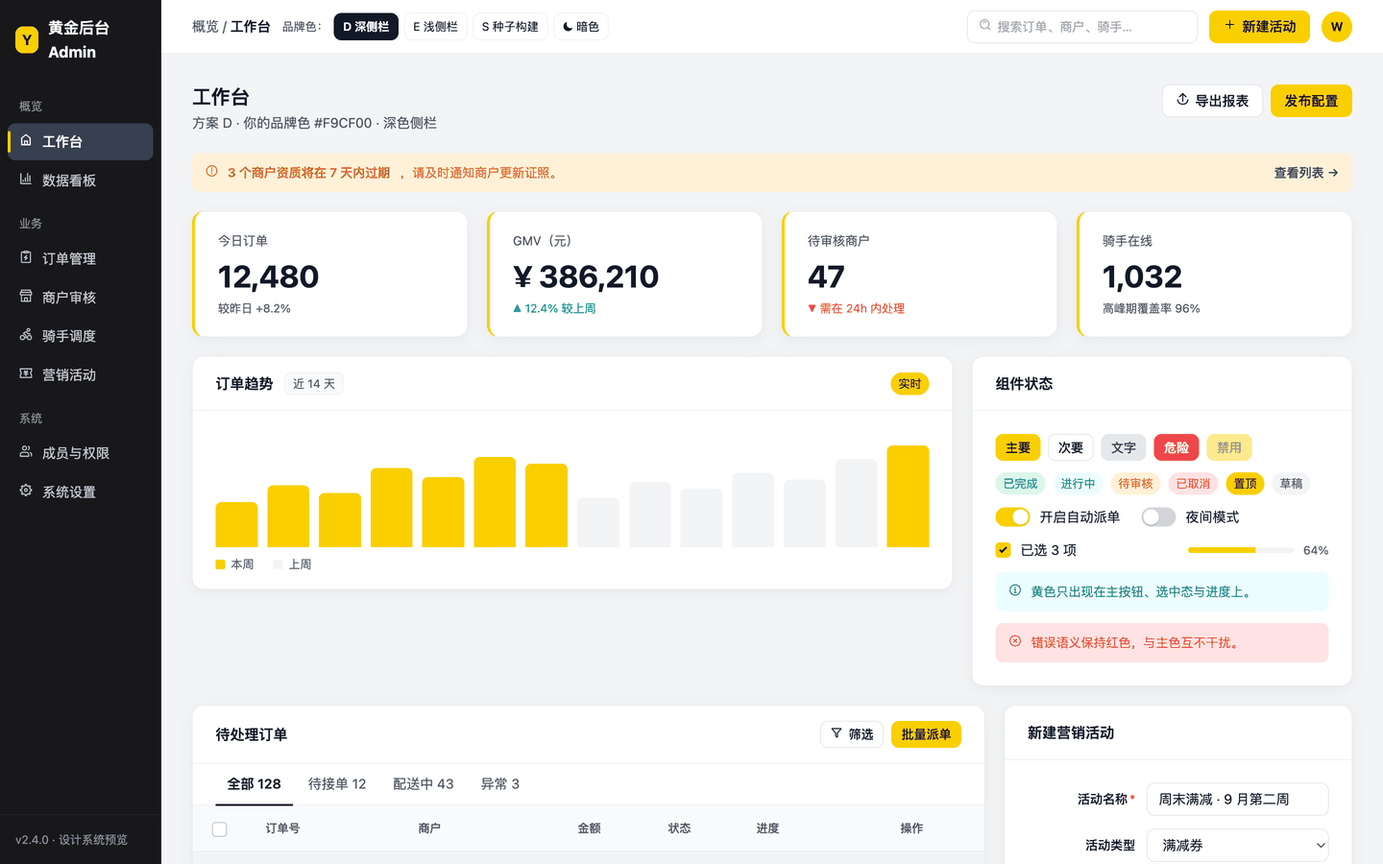
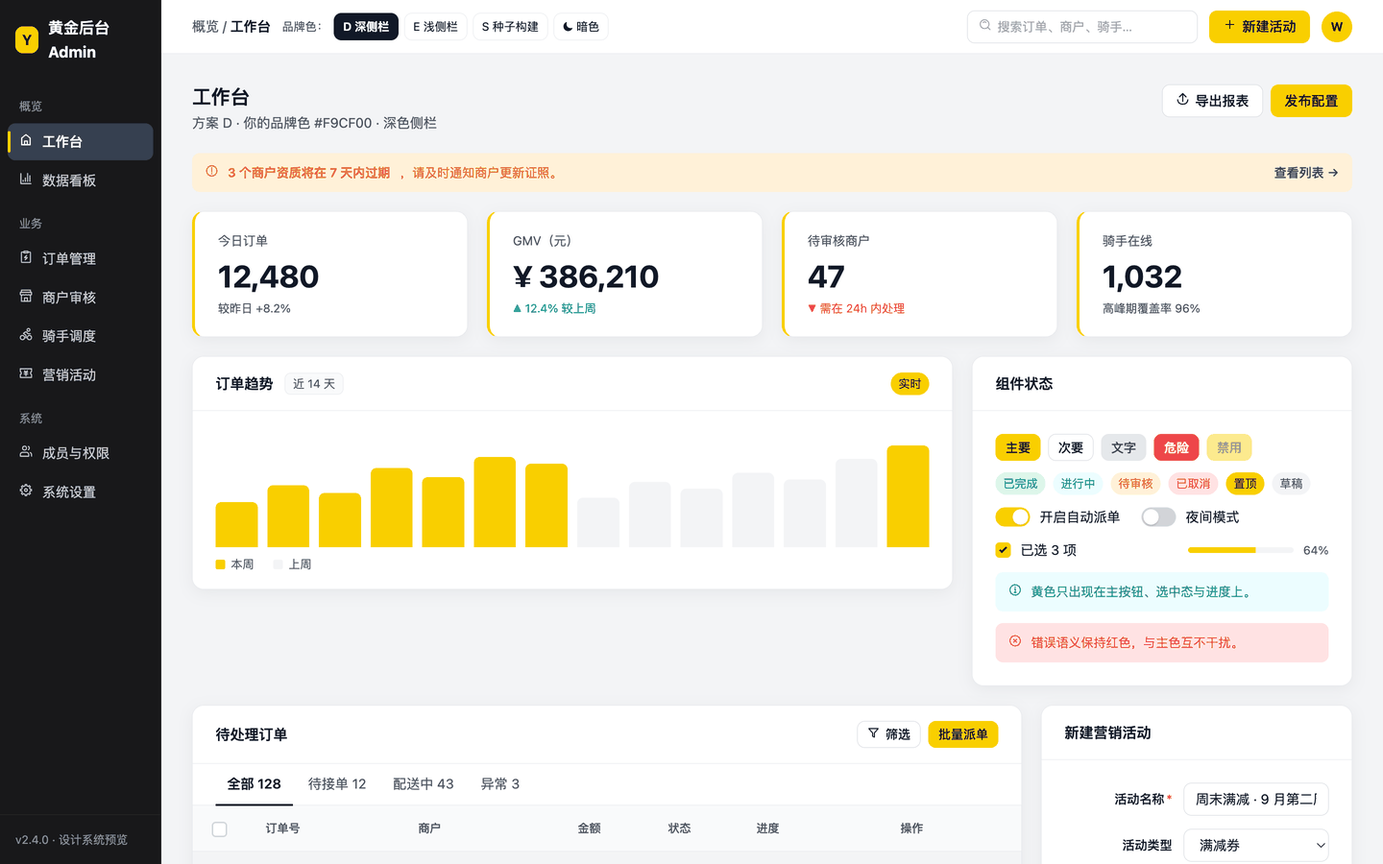
2.1.2 操作链接同色胶囊描边；导览链接文字 + 箭头；操作列加宽防换行；截图重拍

Changed region(s): [[0.5938, 0.8089, 0.8438, 0.8711], [0.7812, 0.9022, 0.9375, 0.9333], [0.7812, 0.9644, 0.9062, 0.9956]]

diff --git a/citrine/previews/yellow-admin/admin.html b/citrine/previews/yellow-admin/admin.html
@@ -82,7 +82,7 @@
         </div>
       </div>
 
-      <div class="alert alert-warning"><span class="i-icon"><svg aria-hidden="true" focusable="false" width="1em" height="1em" viewBox="0 0 48 48" fill="none" xmlns="http://www.w3.org/2000/svg"><path d="M24 44C29.5228 44 34.5228 41.7614 38.1421 38.1421C41.7614 34.5228 44 29.5228 44 24C44 18.4772 41.7614 13.4772 38.1421 9.85786C34.5228 6.23858 29.5228 4 24 4C18.4772 4 13.4772 6.23858 9.85786 9.85786C6.23858 13.4772 4 18.4772 4 24C4 29.5228 6.23858 34.5228 9.85786 38.1421C13.4772 41.7614 18.4772 44 24 44Z" fill="none" stroke="currentColor" stroke-width="var(--icon-stroke-width)" stroke-linejoin="round"/><path fill-rule="evenodd" clip-rule="evenodd" d="M24 37C25.3807 37 26.5 35.8807 26.5 34.5C26.5 33.1193 25.3807 32 24 32C22.6193 32 21.5 33.1193 21.5 34.5C21.5 35.8807 22.6193 37 24 37Z" fill="currentColor"/><path d="M24 12V28" stroke="currentColor" stroke-width="var(--icon-stroke-width)" stroke-linecap="round" stroke-linejoin="round"/></svg></span><b>3 个商户资质将在 7 天内过期</b>，请及时通知商户更新证照。<a href="#" class="act">查看列表 →</a></div>
+      <div class="alert alert-warning"><span class="i-icon"><svg aria-hidden="true" focusable="false" width="1em" height="1em" viewBox="0 0 48 48" fill="none" xmlns="http://www.w3.org/2000/svg"><path d="M24 44C29.5228 44 34.5228 41.7614 38.1421 38.1421C41.7614 34.5228 44 29.5228 44 24C44 18.4772 41.7614 13.4772 38.1421 9.85786C34.5228 6.23858 29.5228 4 24 4C18.4772 4 13.4772 6.23858 9.85786 9.85786C6.23858 13.4772 4 18.4772 4 24C4 29.5228 6.23858 34.5228 9.85786 38.1421C13.4772 41.7614 18.4772 44 24 44Z" fill="none" stroke="currentColor" stroke-width="var(--icon-stroke-width)" stroke-linejoin="round"/><path fill-rule="evenodd" clip-rule="evenodd" d="M24 37C25.3807 37 26.5 35.8807 26.5 34.5C26.5 33.1193 25.3807 32 24 32C22.6193 32 21.5 33.1193 21.5 34.5C21.5 35.8807 22.6193 37 24 37Z" fill="currentColor"/><path d="M24 12V28" stroke="currentColor" stroke-width="var(--icon-stroke-width)" stroke-linecap="round" stroke-linejoin="round"/></svg></span><b>3 个商户资质将在 7 天内过期</b>，请及时通知商户更新证照。<a href="#" class="go">查看列表 →</a></div>
 
       <section class="stats">
         <div class="card stat hi"><div class="label">今日订单</div><div class="value">12,480</div><div class="delta">较昨日 +8.2%</div></div>
@@ -134,11 +134,11 @@
           <table>
             <thead><tr><th><span class="checkbox"></span></th><th>订单号</th><th>商户</th><th>金额</th><th>状态</th><th>进度</th><th>操作</th></tr></thead>
             <tbody>
-              <tr class="selected"><td><span class="checkbox on"></span></td><td>#20260908-0412<span class="sub">14:02 · 骑手 李明</span></td><td>川味小馆（望京店）</td><td>¥ 86.00</td><td><span class="badge badge-info">配送中</span></td><td><span class="progress"><i style="width:70%"></i></span></td><td><a href="#" class="act">详情</a> · <a href="#" class="act">改派</a></td></tr>
-              <tr><td><span class="checkbox"></span></td><td>#20260908-0411<span class="sub">13:58 · 待接单</span></td><td>鲜果时光</td><td>¥ 42.50</td><td><span class="badge badge-warning">待接单</span></td><td><span class="progress"><i style="width:10%"></i></span></td><td><a href="#" class="act">详情</a> · <a href="#" class="act">催单</a></td></tr>
+              <tr class="selected"><td><span class="checkbox on"></span></td><td>#20260908-0412<span class="sub">14:02 · 骑手 李明</span></td><td>川味小馆（望京店）</td><td>¥ 86.00</td><td><span class="badge badge-info">配送中</span></td><td><span class="progress"><i style="width:70%"></i></span></td><td><a href="#" class="act">详情</a><a href="#" class="act">改派</a></td></tr>
+              <tr><td><span class="checkbox"></span></td><td>#20260908-0411<span class="sub">13:58 · 待接单</span></td><td>鲜果时光</td><td>¥ 42.50</td><td><span class="badge badge-warning">待接单</span></td><td><span class="progress"><i style="width:10%"></i></span></td><td><a href="#" class="act">详情</a><a href="#" class="act">催单</a></td></tr>
               <tr><td><span class="checkbox"></span></td><td>#20260908-0409<span class="sub">13:41 · 骑手 王芳</span></td><td>老北京炸酱面</td><td>¥ 28.00</td><td><span class="badge badge-success">已完成</span></td><td><span class="progress"><i style="width:100%"></i></span></td><td><a href="#" class="act">详情</a></td></tr>
-              <tr><td><span class="checkbox"></span></td><td>#20260908-0407<span class="sub">13:30 · 用户取消</span></td><td>星光甜品</td><td>¥ 59.90</td><td><span class="badge badge-error">已取消</span></td><td><span class="progress"><i style="width:0"></i></span></td><td><a href="#" class="act">详情</a> · <a href="#">退款</a></td></tr>
-              <tr><td><span class="checkbox"></span></td><td>#20260908-0403<span class="sub">13:12 · 骑手 赵磊</span></td><td>湘辣小厨</td><td>¥ 112.00</td><td><span class="badge badge-info">配送中</span></td><td><span class="progress"><i style="width:45%"></i></span></td><td><a href="#" class="act">详情</a> · <a href="#" class="act">改派</a></td></tr>
+              <tr><td><span class="checkbox"></span></td><td>#20260908-0407<span class="sub">13:30 · 用户取消</span></td><td>星光甜品</td><td>¥ 59.90</td><td><span class="badge badge-error">已取消</span></td><td><span class="progress"><i style="width:0"></i></span></td><td><a href="#" class="act">详情</a><a href="#" class="act">退款</a></td></tr>
+              <tr><td><span class="checkbox"></span></td><td>#20260908-0403<span class="sub">13:12 · 骑手 赵磊</span></td><td>湘辣小厨</td><td>¥ 112.00</td><td><span class="badge badge-info">配送中</span></td><td><span class="progress"><i style="width:45%"></i></span></td><td><a href="#" class="act">详情</a><a href="#" class="act">改派</a></td></tr>
             </tbody>
           </table>
           <div class="pager"><span>共 128 条</span><a href="#">‹</a><a class="cur" href="#">1</a><a href="#">2</a><a href="#">3</a><a href="#">…</a><a href="#">13</a><a href="#">›</a></div>

diff --git a/citrine/previews/yellow-admin/stress.html b/citrine/previews/yellow-admin/stress.html
@@ -84,11 +84,11 @@
       <div class="scroll-x"><table class="tbl-zebra wide">
         <thead><tr><th class="fixed-col"><span class="checkbox on"></span></th><th class="fixed-col" style="left:52px">订单号</th><th>商户</th><th>城市</th><th>金额 <span class="sort"><i class="up"></i><i class="down on"></i></span></th><th>下单时间 <span class="sort"><i class="up"></i><i class="down"></i></span></th><th>状态</th><th>骑手</th><th>配送时长</th><th>评分</th><th>操作</th></tr></thead>
         <tbody>
-          <tr class="selected"><td class="fixed-col"><span class="checkbox on"></span></td><td class="fixed-col mono" style="left:52px">20260908-0412</td><td>川味小馆（望京店）</td><td>北京</td><td class="num">¥ 1,286.00</td><td class="num">2026-09-08 14:02</td><td><span class="badge badge-info">配送中</span></td><td>李明</td><td class="num">32 min</td><td class="num">4.9</td><td><a href="#" class="act">详情</a> · <a href="#" class="act">改派</a></td></tr>
-          <tr><td class="fixed-col"><span class="checkbox"></span></td><td class="fixed-col mono" style="left:52px">20260908-0411</td><td>鲜果时光</td><td>上海</td><td class="num">¥ 42.50</td><td class="num">2026-09-08 13:58</td><td><span class="badge badge-warning">待接单</span></td><td>—</td><td class="num">—</td><td class="num">—</td><td><a href="#" class="act">详情</a> · <a href="#" class="act">催单</a></td></tr>
+          <tr class="selected"><td class="fixed-col"><span class="checkbox on"></span></td><td class="fixed-col mono" style="left:52px">20260908-0412</td><td>川味小馆（望京店）</td><td>北京</td><td class="num">¥ 1,286.00</td><td class="num">2026-09-08 14:02</td><td><span class="badge badge-info">配送中</span></td><td>李明</td><td class="num">32 min</td><td class="num">4.9</td><td><a href="#" class="act">详情</a><a href="#" class="act">改派</a></td></tr>
+          <tr><td class="fixed-col"><span class="checkbox"></span></td><td class="fixed-col mono" style="left:52px">20260908-0411</td><td>鲜果时光</td><td>上海</td><td class="num">¥ 42.50</td><td class="num">2026-09-08 13:58</td><td><span class="badge badge-warning">待接单</span></td><td>—</td><td class="num">—</td><td class="num">—</td><td><a href="#" class="act">详情</a><a href="#" class="act">催单</a></td></tr>
           <tr class="selected"><td class="fixed-col"><span class="checkbox on"></span></td><td class="fixed-col mono" style="left:52px">20260908-0409</td><td>老北京炸酱面</td><td>北京</td><td class="num">¥ 28.00</td><td class="num">2026-09-08 13:41</td><td><span class="badge badge-success">已完成</span></td><td>王芳</td><td class="num">27 min</td><td class="num">5.0</td><td><a href="#" class="act">详情</a></td></tr>
           <tr><td class="fixed-col"><span class="checkbox"></span></td><td class="fixed-col mono" style="left:52px">20260908-0407</td><td>星光甜品</td><td>广州</td><td class="num">¥ 59.90</td><td class="num">2026-09-08 13:30</td><td><span class="badge badge-neutral">草稿</span></td><td>—</td><td class="num">—</td><td class="num">—</td><td><a href="#" class="act">编辑</a></td></tr>
-          <tr class="selected"><td class="fixed-col"><span class="checkbox on"></span></td><td class="fixed-col mono" style="left:52px">20260908-0403</td><td>湘辣小厨</td><td>深圳</td><td class="num">¥ 112.00</td><td class="num">2026-09-08 13:12</td><td><span class="badge badge-error">已取消</span></td><td>赵磊</td><td class="num">—</td><td class="num">—</td><td><a href="#" class="act">详情</a> · <a href="#">退款</a></td></tr>
+          <tr class="selected"><td class="fixed-col"><span class="checkbox on"></span></td><td class="fixed-col mono" style="left:52px">20260908-0403</td><td>湘辣小厨</td><td>深圳</td><td class="num">¥ 112.00</td><td class="num">2026-09-08 13:12</td><td><span class="badge badge-error">已取消</span></td><td>赵磊</td><td class="num">—</td><td class="num">—</td><td><a href="#" class="act">详情</a><a href="#" class="act">退款</a></td></tr>
         </tbody>
       </table></div>
       <div class="pager"><span>共 <b class="num">128</b> 条</span><select class="size"><option>20 条 / 页</option></select><a href="#">‹</a><a class="cur" href="#">1</a><a href="#">2</a><a href="#">3</a><a href="#">…</a><a href="#">7</a><a href="#">›</a></div>

diff --git a/citrine/testbed/golden-admin/app/src/styles/app.css b/citrine/testbed/golden-admin/app/src/styles/app.css
@@ -8,10 +8,19 @@ a { color: inherit; text-decoration: none; }
 .link.danger, td .link.danger { color: var(--color-text-danger); }   /* 危险动作的内容型链接：白底上红字，与普通链接分开；hover 不变色 */
 .link.danger:hover { color: var(--color-text-danger); }
 .link.mono, .mono.link { font-style: normal; }   /* 等宽数字型链接（订单号、单号）不斜体：数字斜体显歪 */
-/* 操作链接（动词：编辑 / 复制 / 详情 / 改派 / 催单…）：不是内容型链接，不斜体不下划线；靠 500 字重与所在位置（操作列、卡片页脚、提示条、批量条）识别，hover 出下划线。危险动作红字 */
-.act, td .act { color: var(--color-text-link); font-weight: var(--text-weight-label); text-decoration: none; font-style: normal; cursor: pointer; display: inline-flex; align-items: center; min-height: var(--control-hit-min); }
-.act:hover { color: var(--color-text-link-hover); text-decoration: var(--text-link-decoration); }
+/* 操作链接（动词：编辑 / 复制 / 详情 / 改派 / 催单…）：不是内容型链接，不斜体不下划线。
+   形态是"同色胶囊描边"——文字与描边同色（currentColor），无填充，高度 control.height.sm，胶囊圆角；hover 底色 bg.hover。
+   与按钮的区别：不填充、描边是发丝线、字重 500 而非按钮的实底 / 描边灰。危险动作红字红边，hover 浅红底。相邻胶囊间距 space.inline，不再用「·」分隔 */
+.act, td .act { color: var(--color-text-link); font-weight: var(--text-weight-label); text-decoration: none; font-style: normal; cursor: pointer; display: inline-flex; align-items: center; justify-content: center; gap: var(--spacing-1); height: var(--control-height-sm); min-height: 0; padding: 0 var(--spacing-2-5); border: var(--border-width-default) solid currentColor; border-radius: var(--radius-full); line-height: 1; white-space: nowrap; }
+.act:hover { color: var(--color-text-link-hover); background: var(--color-bg-hover); }
 .act.danger, .act.danger:hover { color: var(--color-text-danger); }
+.act.danger:hover { background: var(--color-status-error-bg); }
+.act + .act { margin-left: var(--space-inline); }
+/* 导览链接（查看全部 / 查看列表）：不是动作而是"去另一处看"，文字 + 右箭头图标引导，不描边不斜体；只有图标时（列表项右侧的 ›）用 icon.muted */
+.go { display: inline-flex; align-items: center; gap: var(--spacing-1); color: var(--color-text-link); font-weight: var(--text-weight-label); text-decoration: none; font-style: normal; cursor: pointer; min-height: var(--control-hit-min); }
+.go:hover { color: var(--color-text-link-hover); }
+.go:hover .i-icon { transform: translateX(var(--spacing-0-5)); }
+.go .i-icon { transition: transform var(--motion-duration-fast) var(--motion-easing-standard); }
 /* 表格、卡片页脚、提示条里的操作链接不是句中链接，命中区不低于 control.hit-min；视觉字号不变 */
 td .link, .card-head .link, .tip .link, .camp-foot .link, .batch .link, .empty .link, .more-link { display: inline-flex; align-items: center; min-height: var(--control-hit-min); }
 .more-link { min-width: var(--control-hit-min); justify-content: center; }

diff --git a/citrine/testbed/golden-admin/app/src/pages/Orders.vue b/citrine/testbed/golden-admin/app/src/pages/Orders.vue
@@ -92,10 +92,10 @@ const rowClass = ({ row }) => (selected.value.includes(row) ? 'is-selected' : ''
         <el-table-column label="骑手" width="100"><template #default="{ row }">{{ row.rider || '—' }}</template></el-table-column>
         <el-table-column label="配送时长" width="110"><template #default="{ row }"><span class="num">{{ row.duration ? `${row.duration} min` : '—' }}</span></template></el-table-column>
         <el-table-column label="评分" width="80"><template #default="{ row }"><span class="num">{{ row.rating || '—' }}</span></template></el-table-column>
-        <el-table-column label="操作" width="170" fixed="right">
+        <el-table-column label="操作" width="200" fixed="right">
           <template #default="{ row }">
             <router-link class="act" :to="`/orders/${row.id}`">详情</router-link>
-            <template v-if="can('order.reassign')"> · <a class="act" @click="router.push(`/orders/${row.id}?reassign=1`)">改派</a></template>
+            <template v-if="can('order.reassign')"><a class="act" @click="router.push(`/orders/${row.id}?reassign=1`)">改派</a></template>
             <el-dropdown trigger="click" class="more" @command="(c) => c === 'cancel' && cancelOrder(row)">
               <a class="act more-link" role="button" aria-label="更多操作" tabindex="0"><MoreOne class="i-icon--sm" /></a>
               <template #dropdown><el-dropdown-menu><el-dropdown-item command="remind">催单</el-dropdown-item><el-dropdown-item command="cancel" :disabled="!can('order.cancel')" class="is-danger">取消订单</el-dropdown-item></el-dropdown-menu></template>
@@ -109,6 +109,6 @@ const rowClass = ({ row }) => (selected.value.includes(row) ? 'is-selected' : ''
 </template>
 
 <style scoped>
-.more { margin-left: var(--spacing-1-5); vertical-align: middle; }
-.more-link { text-decoration: none; font-style: normal; color: var(--color-icon-default); }
+.more { margin-left: var(--space-inline); vertical-align: middle; }   /* 与相邻操作胶囊同一间距 */
+.more-link { text-decoration: none; font-style: normal; color: var(--color-icon-default); padding: 0 var(--spacing-1-5); }   /* 图标胶囊：内边距收窄成近方形 */
 </style>

diff --git a/citrine/testbed/golden-admin/app/src/pages/Campaigns.vue b/citrine/testbed/golden-admin/app/src/pages/Campaigns.vue
@@ -46,7 +46,7 @@ function toggle(c) {
       <el-table-column label="活动时间" width="230"><template #default="{ row }"><span class="num">{{ row.range }}</span></template></el-table-column>
       <el-table-column label="状态" width="110"><template #default="{ row }"><span class="status" :class="tone(row.status)">{{ row.status }}</span></template></el-table-column>
       <el-table-column label="首页 Banner" width="110"><template #default="{ row }"><el-switch v-model="row.banner" size="small" :disabled="!can('campaign.edit')" /></template></el-table-column>
-      <el-table-column label="操作" width="170" fixed="right"><template #default="{ row }"><a class="act">编辑</a><template v-if="can('campaign.edit') && ['进行中', '待审核', '已下线'].includes(row.status)"> · <a class="act" @click="toggle(row)">{{ row.status === '进行中' ? '下线' : '上线' }}</a></template> · <a class="act">复制</a></template></el-table-column>
+      <el-table-column label="操作" width="210" fixed="right"><template #default="{ row }"><a class="act">编辑</a><template v-if="can('campaign.edit') && ['进行中', '待审核', '已下线'].includes(row.status)"><a class="act" @click="toggle(row)">{{ row.status === '进行中' ? '下线' : '上线' }}</a></template><a class="act">复制</a></template></el-table-column>
     </el-table>
   </el-card>
 
@@ -56,7 +56,7 @@ function toggle(c) {
       <h3>{{ c.name }}</h3>
       <div class="camp-meta">{{ c.scope.join('、') }} · <span class="num">{{ c.range }}</span></div>
       <el-progress :percentage="pct(c)" :stroke-width="6" :format="(p) => `${p}%`" :class="{ 'is-muted': c.status !== '进行中' }" />
-      <div class="camp-foot"><span class="num sub-inline">{{ yuan(c.used) }} / {{ yuan(c.budget) }}</span><span><a class="act">编辑</a> · <a class="act">复制</a></span></div>
+      <div class="camp-foot"><span class="num sub-inline">{{ yuan(c.used) }} / {{ yuan(c.budget) }}</span><span><a class="act">编辑</a><a class="act">复制</a></span></div>
     </el-card>
   </div>
 

diff --git a/citrine/previews/yellow-admin/admin.css b/citrine/previews/yellow-admin/admin.css
@@ -8,9 +8,13 @@ a { color: inherit; text-decoration: none; }
 /* 内容型链接：无色系 + 下划线 + 斜体（品牌决定）；导航、标签页、分页、菜单是组件型链接，不套这条 */
 td a, p a, .alert a, .help a, .link { color: var(--color-text-link); text-decoration: var(--text-link-decoration); font-style: var(--text-link-style); }
 td a:hover, p a:hover, .alert a:hover, .help a:hover, .link:hover { color: var(--color-text-link-hover); }
-/* 操作链接（动词）：不斜体不下划线，500 字重，hover 出下划线；内容型链接（订单号、名称）保留斜体 + 下划线 */
-.act, td a.act, .alert a.act, p a.act { color: var(--color-text-link); font-weight: var(--text-weight-label); text-decoration: none; font-style: normal; }
-.act:hover, td a.act:hover { color: var(--color-text-link-hover); text-decoration: var(--text-link-decoration); }
+/* 操作链接（动词）：同色胶囊描边，不斜体不下划线，500 字重，hover 底色；内容型链接（订单号、名称）保留斜体 + 下划线 */
+.act, td a.act, .alert a.act, p a.act { color: var(--color-text-link); font-weight: var(--text-weight-label); text-decoration: none; font-style: normal; display: inline-flex; align-items: center; height: var(--control-height-sm); padding: 0 var(--spacing-2-5); border: var(--border-width-default) solid currentColor; border-radius: var(--radius-full); line-height: 1; white-space: nowrap; }
+.act:hover, td a.act:hover { color: var(--color-text-link-hover); background: var(--color-bg-hover); }
+.act + .act { margin-left: var(--space-inline); }
+/* 导览链接（查看全部 / 查看列表 →）：文字 + 箭头引导，不描边不斜体 */
+.go, .alert a.go, p a.go { color: var(--color-text-link); font-weight: var(--text-weight-label); text-decoration: none; font-style: normal; }
+.go:hover { color: var(--color-text-link-hover); }
 button { font: inherit; cursor: pointer; }
 
 .app { display: grid; grid-template-columns: var(--layout-sidebar-width) 1fr; min-height: 100vh; }

diff --git a/citrine/testbed/golden-admin/app/src/pages/Merchants.vue b/citrine/testbed/golden-admin/app/src/pages/Merchants.vue
@@ -53,11 +53,11 @@ function toggleActive(row) {
       <el-table-column label="联系人" width="160"><template #default="{ row }">{{ row.contact }} <span class="sub-inline num">{{ row.phone }}</span></template></el-table-column>
       <el-table-column label="状态" width="110"><template #default="{ row }"><span class="status" :class="tone(row.status)">{{ row.status }}</span></template></el-table-column>
       <el-table-column label="入驻时间" width="130"><template #default="{ row }"><span class="num">{{ row.joined }}</span></template></el-table-column>
-      <el-table-column label="操作" width="180" fixed="right">
+      <el-table-column label="操作" width="210" fixed="right">
         <template #default="{ row }">
           <router-link class="act" :to="`/merchants/${row.id}/edit`">{{ can('merchant.edit') ? '编辑' : '查看' }}</router-link>
-          <template v-if="can('merchant.audit') && row.status === '待审核'"> · <a class="act" @click="openAudit(row)">审核</a></template>
-          <template v-if="can('merchant.edit')"> · <a class="act" @click="toggleActive(row)">{{ row.status === '已停用' ? '恢复' : '停用' }}</a></template>
+          <template v-if="can('merchant.audit') && row.status === '待审核'"><a class="act" @click="openAudit(row)">审核</a></template>
+          <template v-if="can('merchant.edit')"><a class="act" @click="toggleActive(row)">{{ row.status === '已停用' ? '恢复' : '停用' }}</a></template>
         </template>
       </el-table-column>
     </el-table>

diff --git a/citrine/testbed/golden-admin/app/src/pages/Riders.vue b/citrine/testbed/golden-admin/app/src/pages/Riders.vue
@@ -43,11 +43,11 @@ const initials = (n) => n.slice(0, 1)
       <el-table-column label="今日完成" width="110" align="right"><template #default="{ row }"><span class="num">{{ row.done }}</span></template></el-table-column>
       <el-table-column label="评分" width="90" align="right"><template #default="{ row }"><span class="num">{{ row.rating }}</span></template></el-table-column>
       <el-table-column label="最近活跃" width="120"><template #default="{ row }"><span class="num">{{ row.active }}</span></template></el-table-column>
-      <el-table-column label="操作" width="200" fixed="right">
+      <el-table-column label="操作" width="240" fixed="right">
         <template #default="{ row }">
           <a class="act">查看</a>
-          <template v-if="can('order.reassign') && row.status !== '离线'"> · <a class="act" @click="openDispatch(row)">派单</a></template>
-          <template v-if="can('order.reassign') && row.status !== '离线'"> · <a class="act danger" @click="forceOffline(row)">强制下线</a></template>
+          <template v-if="can('order.reassign') && row.status !== '离线'"><a class="act" @click="openDispatch(row)">派单</a></template>
+          <template v-if="can('order.reassign') && row.status !== '离线'"><a class="act danger" @click="forceOffline(row)">强制下线</a></template>
         </template>
       </el-table-column>
     </el-table>

diff --git a/citrine/testbed/golden-admin/app/src/pages/Members.vue b/citrine/testbed/golden-admin/app/src/pages/Members.vue
@@ -67,7 +67,7 @@ const initials = (n) => n.slice(0, 1)
       <el-table-column label="角色" width="140"><template #default="{ row }"><span class="badge" :class="row.role === 'admin' ? 'brand' : 'neutral'">{{ ROLES[row.role].label }}</span></template></el-table-column>
       <el-table-column label="状态" width="120"><template #default="{ row }"><el-switch :model-value="row.status === '启用'" size="small" :disabled="!can('member.edit') || row.account === 'wangxm'" @change="(v) => (row.status = v ? '启用' : '已停用')" /></template></el-table-column>
       <el-table-column label="最近登录" width="180"><template #default="{ row }"><span class="num">{{ row.last }}</span></template></el-table-column>
-      <el-table-column label="操作" width="230" fixed="right" class-name="nowrap"><template #default="{ row }"><a class="act" @click="editRole(row)">编辑角色</a> · <a class="act">重置密码</a> · <a class="act danger" @click="remove(row)">移除</a></template></el-table-column>
+      <el-table-column label="操作" width="270" fixed="right" class-name="nowrap"><template #default="{ row }"><a class="act" @click="editRole(row)">编辑角色</a><a class="act">重置密码</a><a class="act danger" @click="remove(row)">移除</a></template></el-table-column>
     </el-table>
   </el-card>
 

diff --git a/citrine/seeds/brand-yellow-e/design-system/DESIGN.md b/citrine/seeds/brand-yellow-e/design-system/DESIGN.md
@@ -9,7 +9,7 @@
 1. 黄只做主操作面：主按钮、进行中的进度 / 滑杆填充、勾选 / 开关选中、当前步骤、分页当前页、品牌 logo、数据卡左描边。**选中、当前、强调一律用深黑反转块或近黑文字**，不用黄——头像、角色 / 置顶徽标、已结束的进度条都不是黄。
 2. 黄底深字、白底无黄字、任何 hover / focus 不出现黄。
 3. 状态色只做"文字 + 同色浅底"胶囊；实底按钮只有主（黄）与危险（红底白字）；`type=success / warning / info` 按钮不用。
-4. 按钮不能裸放：有描边（次要）或浅底（quiet 文字按钮）。链接分三层：内容型（订单号、名称：下划线 + 斜体）、操作型（编辑 / 详情 / 改派等动词：500 字重、不斜体不下划线、hover 出下划线、危险红字）、标题型（列表项标题：近黑 + 500）。表格操作列默认操作链接串，审批类决定才用 quiet 按钮。
+4. 按钮不能裸放：有描边（次要）或浅底（quiet 文字按钮）。链接分四层：内容型（订单号、名称：下划线 + 斜体）、操作型（编辑 / 详情 / 改派等动词：同色胶囊描边、500 字重、不斜体、hover 底色、危险红字红边）、导览型（查看全部 / 查看列表：文字 + 右箭头图标，不描边）、标题型（列表项标题：近黑 + 500）。表格操作列默认操作胶囊，审批类决定才用 quiet 按钮。
 5. 筛选栏：控件不带可见标签（靠 `aria-label`），下拉默认值是真实选项「全部…」，关键词框占位符描述可搜字段；动作区「查询」主按钮 +「重置」quiet，折行时整体换到下一行右对齐。
 6. 尺寸只从 token 拿：控件高 `control.height.*`，间距 `space.* / spacing.*`，圆角按容器层级递减，字号 8 档阶梯；**列宽与筛选控件宽度不是 token**（按内容定，关键词框用 `layout.search-width`）。页面骨架（页头 / 列表 / 表单 / 分步 / 详情 / 结果）见「页面骨架」一节。
 7. 字重：正文与胶囊 400，按钮 / 表头 / 标签 500，反转块选中 500，数据大字 700。
@@ -22,7 +22,7 @@
 - 品牌是一个高饱和的正黄（`color.brand.500`），中后台里它只做「唯一焦点」：主按钮、进度 / 强度、指示条（含数据卡的左描边点缀）。**黄色表达"主操作"，不表达"选中"**：分段选择器、视图 / 状态切换、侧栏当前项这类选中态一律用深黑反转块（`color.action.selected` + `color.text.on-selected`），黄色最多留给旁边的指示条。页面 90% 以上面积保持冷灰白中性色，黄色出现的地方就是该被注意的地方。
 - 黄底永远深字。品牌黄上白字对比度只有约 1.5:1，`color.text.on-primary` 固定为近黑；任何在黄色上放浅色文字的写法都不合规。
 - 品牌黄只有一个值 `brand.500`，**没有延伸色**：不做浅调（奶油黄）、不做深金、不做半透明洗色——实测发现它们在界面里显脏。需要层次时用无色系：冷灰（`neutral.*`）做底与分隔，近黑（`neutral.900`，#111827 带一丝深蓝）做选中块、焦点边线、品牌插图的描边。白底上没有任何黄色文字：黄字白底 1.5:1 不可读，品牌强调靠「黑 + 纯黄」的对比而不是金色文字。
-- 链接不用色相（品牌决定），分三层：**内容型链接**——正文、表格单元格里指向另一处内容的文字（订单号、商户名、活动名、公告正文里的链接），`color.text.link` 中性深灰 + 常态下划线（`text.link.decoration`）+ 斜体（`text.link.style`），hover 加深到 `text.link-hover`；**操作链接**——动词（编辑 / 复制 / 详情 / 改派 / 催单 / 取消选择 / 忘记密码），出现在操作列、卡片页脚、提示条、批量条里，`text.link` + `text.weight.label`（500），**不斜体不下划线**，靠字重与位置识别，hover 出下划线，危险动作 `text.danger` 红字——把动词排成斜体下划线像被强调的正文，是错的；**标题型链接**——列表项标题（待办、公告）本身可点，`text.primary` + 500，hover 出下划线。导航、标签页、分页、菜单是组件型链接，各有自己的颜色规则。注意中文字体没有真斜体，浏览器合成的假斜体在雅黑上可读性略降，所以链接文字宜短；**等宽数字型链接（订单号、单号）不斜体**，只保留下划线——数字斜体显歪。危险动作的内容型链接用 `text.danger` 红字（白底上），与普通链接分开。
+- 链接不用色相（品牌决定），分三层：**内容型链接**——正文、表格单元格里指向另一处内容的文字（订单号、商户名、活动名、公告正文里的链接），`color.text.link` 中性深灰 + 常态下划线（`text.link.decoration`）+ 斜体（`text.link.style`），hover 加深到 `text.link-hover`；**操作链接**——动词（编辑 / 复制 / 详情 / 改派 / 催单 / 取消选择 / 忘记密码），出现在操作列、卡片页脚、提示条、批量条里，形态是**同色胶囊描边**：`text.link` + `text.weight.label`（500），文字与描边同色（currentColor）、发丝线、`radius.full`、高 `control.height.sm`、无填充，**不斜体不下划线**，hover 换 `bg.hover` 底色；危险动作 `text.danger` 红字红边，hover `status.error-bg`；相邻胶囊间距 `space.inline`，不用「·」分隔——把动词排成斜体下划线像被强调的正文，是错的；与按钮的区别是不填充、描边是发丝线而不是 `border.strong`；**导览链接**——「查看全部」「查看列表」这类"去另一处看"的入口，不是动作也不是内容：`text.link` + 500，**文字 + 右箭头图标**（`icon.size.sm`）引导，不描边不斜体，hover 箭头右移 `spacing.0-5`；只有图标的版本（列表项右侧的 ›）用 `icon.muted`；**标题型链接**——列表项标题（待办、公告）本身可点，`text.primary` + 500，hover 出下划线。导航、标签页、分页、菜单是组件型链接，各有自己的颜色规则。注意中文字体没有真斜体，浏览器合成的假斜体在雅黑上可读性略降，所以链接文字宜短；**等宽数字型链接（订单号、单号）不斜体**，只保留下划线——数字斜体显歪。危险动作的内容型链接用 `text.danger` 红字（白底上），与普通链接分开。
 - 亲和感与层次感来自灰、黑、黄三者的配比：黄只以纯色小面积出现（主按钮、进度填充、指示条、品牌徽标、two-tone 插图的填充），灰承担 90% 的面积与所有中间层次，黑承担选中与强调。hover / active 不换黄色的深浅（延伸色显脏），用边线变黑、内阴影表达。
 - 中性色是冷灰（gray 族），暗色深底与它同族。冷灰让品牌黄与深蓝近黑形成互补对比，黄更跳；暖灰会让整个界面显黄、显脏（「黄的淡色落在冷灰上变橄榄」的顾虑只在黄有延伸色时成立，本系统没有延伸色）。弱化文字（`color.text.muted`）最浅只到 neutral.500（白底 5.2:1、页面底上 4.7:1）；neutral.400 只允许出现在输入框占位符（`color.text.placeholder`）上，且占位符永远不能是字段唯一的标签——有可见标签的字段（含必填项）可以用占位符给格式或示例提示。
 - 状态色与图表色以公司调色板为**色相参考**（Success Green / Warning Orange / Danger Red / Info Cyan / Purple / Primary Blue），让多条产品线的状态语义看起来是一家的；具体值按对比度与冷暖调校，公司原值保留在 token 描述里。本系统主色是黄，所以调色板里的 Primary Blue 只做图表分类色，链接、焦点、选中态一律无色系。warning 是橙不是黄，与品牌黄靠色相区分——「主操作」和「警告」必须一眼分开；info 是青不是蓝。
@@ -134,13 +134,14 @@
 | 次要按钮 | `bg.surface`，hover `action.secondary-hover` | `text.primary` | `border.strong` |
 | 文字按钮（quiet） | 静息 `action.quiet` 浅底，hover / active `action.quiet-hover` | `text.link` / hover `text.link-hover` | 无边线；**按钮类内容不能无框架直接放在背景上**（用户规则）：要么描边（次要按钮），要么浅底（quiet），不允许裸文字当按钮 |
 | 内容型链接（订单号、名称、正文里的链接） | — | `text.link`，hover `text.link-hover` | `text.link.decoration` + `text.link.style`；等宽数字型链接不斜体 |
-| 操作链接（编辑 / 复制 / 详情 / 改派 / 催单 / 取消选择…） | — | `text.link` + `text.weight.label`，hover `text.link-hover` + 下划线；危险动作 `text.danger`（hover 不变色） | 不斜体、常态无下划线；多个动作用「·」分隔，一行最多 3 个，其余收进「⋯」；命中区 ≥ `control.hit-min` |
+| 操作链接（编辑 / 复制 / 详情 / 改派 / 催单 / 取消选择…） | 无填充；hover `bg.hover`（危险 `status.error-bg`） | `text.link` + `text.weight.label`；危险动作 `text.danger`（hover 不变色） | **同色胶囊描边**：`border.width.default` × currentColor，`radius.full`，高 `control.height.sm`，左右内边距 `spacing.2-5`；不斜体不下划线；相邻胶囊间距 `space.inline`，一行最多 3 个，其余收进「⋯」图标胶囊 |
+| 导览链接（查看全部 / 查看列表） | — | `text.link` + `text.weight.label`，hover `text.link-hover` | 文字 + 右箭头 `icon.size.sm`，hover 箭头右移 `spacing.0-5`；不描边不斜体；只有图标时（列表项右侧 ›）`icon.muted`，命中区 ≥ `control.hit-min` |
 | 标题型链接（待办、公告的标题） | — | `text.primary` + `text.weight.label`，hover `text.link-hover` + 下划线 | 不斜体、常态无下划线 |
 | 危险按钮 | `action.danger` / `-hover` / `-active` | `text.on-danger` | — |
 | 禁用态（任何控件） | 不换色 | 不换色 | `opacity.disabled` |
 | 输入框 / 搜索框 | `bg.input` | `text.primary`，占位符 `text.placeholder` | `border.input`；聚焦 `border.focus` + `focus.ring` × `focus.ring.width`；出错 `status.error` |
 | 卡片 | `bg.surface` | — | `border.default`，`radius.lg`，`elevation.card.*`，内边距 `space.card` |
-| 表格 | 表头 `bg.subtle`；斑马纹 `bg.subtle`；行 hover `bg.hover`；选中 `bg.selected-subtle`；选中 + hover `bg.selected-hover` | 表头 `text.secondary`（`text.small.size`），副行 `text.muted`，数字列 `text.numeric.variant` | 行分隔 `border.default`；单元格内边距 `table.cell.padding-y / -x`；排序激活 `text.selected`；固定列右缘 `elevation.popover.*`。**操作列**：默认是操作链接串（详情 · 改派 · ⋯），危险动作红字；只有审批类决定（通过 / 拒绝、确认 / 驳回）用 small quiet 文字按钮（`text` + `size="small"`），危险的用 `type="danger" text`（红字 + `status.error-bg` 浅红底，hover 同色发丝边——不是灰底红字）；无论哪种形态，**危险动作不得与普通动作同色**；一行最多 3 个动作，更多收进下拉「更多」；不可操作的行放 `text.muted` 的「—」；不用描边次要按钮排成一列；单元格里的名称 / 单号才是内容型链接 |
+| 表格 | 表头 `bg.subtle`；斑马纹 `bg.subtle`；行 hover `bg.hover`；选中 `bg.selected-subtle`；选中 + hover `bg.selected-hover` | 表头 `text.secondary`（`text.small.size`），副行 `text.muted`，数字列 `text.numeric.variant` | 行分隔 `border.default`；单元格内边距 `table.cell.padding-y / -x`；排序激活 `text.selected`；固定列右缘 `elevation.popover.*`。**操作列**：默认是一串操作胶囊（详情 改派 ⋯，间距 `space.inline`），危险动作红字红边；列宽按胶囊估算——两字胶囊约 52px、四字约 80px、图标胶囊约 36px，加间距与单元格内边距，胶囊不得换行；只有审批类决定（通过 / 拒绝、确认 / 驳回）用 small quiet 文字按钮（`text` + `size="small"`），危险的用 `type="danger" text`（红字 + `status.error-bg` 浅红底，hover 同色发丝边——不是灰底红字）；无论哪种形态，**危险动作不得与普通动作同色**；一行最多 3 个动作，更多收进下拉「更多」；不可操作的行放 `text.muted` 的「—」；不用描边次要按钮排成一列；单元格里的名称 / 单号才是内容型链接 |
 | 筛选栏 | 条件区无底；控件不带可见标签，靠 `aria-label` 命名（筛选栏是紧凑形态，占位符规则在这里的例外只有关键词框：占位符列出可搜字段，且带 `aria-label` 与清除按钮） | 下拉默认值是真实选项「全部…」，用正文色 | 条件区 / 动作区两组；动作区「查询」主按钮 +「重置」quiet 文字按钮，`margin-left: auto`，折行时整体换行右对齐；关键词框宽 `layout.search-width`，其余控件按内容定宽 |
 | 已选筹码 / 批量操作条 | `bg.selected` | 「已选 N 项」`text.selected` + `text.weight.strong`；带「取消选择」内容型链接 | 按钮 small：普通批量为次要按钮，破坏性批量为实底危险按钮；条随勾选出现，位于表格上方 |
 | 选项卡片（改派骑手、派单选单） | 默认 `bg.surface`；hover `bg.hover`；选中 `bg.selected-subtle` | `text.primary`，meta `text.muted` | 边线 `border.default`，选中 `border.focus`；卡片撑满容器宽度（radio-group 默认 align-items:center 会把它挤成内容宽） |

diff --git a/citrine/testbed/golden-admin/app/design-system/DESIGN.md b/citrine/testbed/golden-admin/app/design-system/DESIGN.md
@@ -9,7 +9,7 @@
 1. 黄只做主操作面：主按钮、进行中的进度 / 滑杆填充、勾选 / 开关选中、当前步骤、分页当前页、品牌 logo、数据卡左描边。**选中、当前、强调一律用深黑反转块或近黑文字**，不用黄——头像、角色 / 置顶徽标、已结束的进度条都不是黄。
 2. 黄底深字、白底无黄字、任何 hover / focus 不出现黄。
 3. 状态色只做"文字 + 同色浅底"胶囊；实底按钮只有主（黄）与危险（红底白字）；`type=success / warning / info` 按钮不用。
-4. 按钮不能裸放：有描边（次要）或浅底（quiet 文字按钮）。链接分三层：内容型（订单号、名称：下划线 + 斜体）、操作型（编辑 / 详情 / 改派等动词：500 字重、不斜体不下划线、hover 出下划线、危险红字）、标题型（列表项标题：近黑 + 500）。表格操作列默认操作链接串，审批类决定才用 quiet 按钮。
+4. 按钮不能裸放：有描边（次要）或浅底（quiet 文字按钮）。链接分四层：内容型（订单号、名称：下划线 + 斜体）、操作型（编辑 / 详情 / 改派等动词：同色胶囊描边、500 字重、不斜体、hover 底色、危险红字红边）、导览型（查看全部 / 查看列表：文字 + 右箭头图标，不描边）、标题型（列表项标题：近黑 + 500）。表格操作列默认操作胶囊，审批类决定才用 quiet 按钮。
 5. 筛选栏：控件不带可见标签（靠 `aria-label`），下拉默认值是真实选项「全部…」，关键词框占位符描述可搜字段；动作区「查询」主按钮 +「重置」quiet，折行时整体换到下一行右对齐。
 6. 尺寸只从 token 拿：控件高 `control.height.*`，间距 `space.* / spacing.*`，圆角按容器层级递减，字号 8 档阶梯；**列宽与筛选控件宽度不是 token**（按内容定，关键词框用 `layout.search-width`）。页面骨架（页头 / 列表 / 表单 / 分步 / 详情 / 结果）见「页面骨架」一节。
 7. 字重：正文与胶囊 400，按钮 / 表头 / 标签 500，反转块选中 500，数据大字 700。
@@ -22,7 +22,7 @@
 - 品牌是一个高饱和的正黄（`color.brand.500`），中后台里它只做「唯一焦点」：主按钮、进度 / 强度、指示条（含数据卡的左描边点缀）。**黄色表达"主操作"，不表达"选中"**：分段选择器、视图 / 状态切换、侧栏当前项这类选中态一律用深黑反转块（`color.action.selected` + `color.text.on-selected`），黄色最多留给旁边的指示条。页面 90% 以上面积保持冷灰白中性色，黄色出现的地方就是该被注意的地方。
 - 黄底永远深字。品牌黄上白字对比度只有约 1.5:1，`color.text.on-primary` 固定为近黑；任何在黄色上放浅色文字的写法都不合规。
 - 品牌黄只有一个值 `brand.500`，**没有延伸色**：不做浅调（奶油黄）、不做深金、不做半透明洗色——实测发现它们在界面里显脏。需要层次时用无色系：冷灰（`neutral.*`）做底与分隔，近黑（`neutral.900`，#111827 带一丝深蓝）做选中块、焦点边线、品牌插图的描边。白底上没有任何黄色文字：黄字白底 1.5:1 不可读，品牌强调靠「黑 + 纯黄」的对比而不是金色文字。
-- 链接不用色相（品牌决定），分三层：**内容型链接**——正文、表格单元格里指向另一处内容的文字（订单号、商户名、活动名、公告正文里的链接），`color.text.link` 中性深灰 + 常态下划线（`text.link.decoration`）+ 斜体（`text.link.style`），hover 加深到 `text.link-hover`；**操作链接**——动词（编辑 / 复制 / 详情 / 改派 / 催单 / 取消选择 / 忘记密码），出现在操作列、卡片页脚、提示条、批量条里，`text.link` + `text.weight.label`（500），**不斜体不下划线**，靠字重与位置识别，hover 出下划线，危险动作 `text.danger` 红字——把动词排成斜体下划线像被强调的正文，是错的；**标题型链接**——列表项标题（待办、公告）本身可点，`text.primary` + 500，hover 出下划线。导航、标签页、分页、菜单是组件型链接，各有自己的颜色规则。注意中文字体没有真斜体，浏览器合成的假斜体在雅黑上可读性略降，所以链接文字宜短；**等宽数字型链接（订单号、单号）不斜体**，只保留下划线——数字斜体显歪。危险动作的内容型链接用 `text.danger` 红字（白底上），与普通链接分开。
+- 链接不用色相（品牌决定），分三层：**内容型链接**——正文、表格单元格里指向另一处内容的文字（订单号、商户名、活动名、公告正文里的链接），`color.text.link` 中性深灰 + 常态下划线（`text.link.decoration`）+ 斜体（`text.link.style`），hover 加深到 `text.link-hover`；**操作链接**——动词（编辑 / 复制 / 详情 / 改派 / 催单 / 取消选择 / 忘记密码），出现在操作列、卡片页脚、提示条、批量条里，形态是**同色胶囊描边**：`text.link` + `text.weight.label`（500），文字与描边同色（currentColor）、发丝线、`radius.full`、高 `control.height.sm`、无填充，**不斜体不下划线**，hover 换 `bg.hover` 底色；危险动作 `text.danger` 红字红边，hover `status.error-bg`；相邻胶囊间距 `space.inline`，不用「·」分隔——把动词排成斜体下划线像被强调的正文，是错的；与按钮的区别是不填充、描边是发丝线而不是 `border.strong`；**导览链接**——「查看全部」「查看列表」这类"去另一处看"的入口，不是动作也不是内容：`text.link` + 500，**文字 + 右箭头图标**（`icon.size.sm`）引导，不描边不斜体，hover 箭头右移 `spacing.0-5`；只有图标的版本（列表项右侧的 ›）用 `icon.muted`；**标题型链接**——列表项标题（待办、公告）本身可点，`text.primary` + 500，hover 出下划线。导航、标签页、分页、菜单是组件型链接，各有自己的颜色规则。注意中文字体没有真斜体，浏览器合成的假斜体在雅黑上可读性略降，所以链接文字宜短；**等宽数字型链接（订单号、单号）不斜体**，只保留下划线——数字斜体显歪。危险动作的内容型链接用 `text.danger` 红字（白底上），与普通链接分开。
 - 亲和感与层次感来自灰、黑、黄三者的配比：黄只以纯色小面积出现（主按钮、进度填充、指示条、品牌徽标、two-tone 插图的填充），灰承担 90% 的面积与所有中间层次，黑承担选中与强调。hover / active 不换黄色的深浅（延伸色显脏），用边线变黑、内阴影表达。
 - 中性色是冷灰（gray 族），暗色深底与它同族。冷灰让品牌黄与深蓝近黑形成互补对比，黄更跳；暖灰会让整个界面显黄、显脏（「黄的淡色落在冷灰上变橄榄」的顾虑只在黄有延伸色时成立，本系统没有延伸色）。弱化文字（`color.text.muted`）最浅只到 neutral.500（白底 5.2:1、页面底上 4.7:1）；neutral.400 只允许出现在输入框占位符（`color.text.placeholder`）上，且占位符永远不能是字段唯一的标签——有可见标签的字段（含必填项）可以用占位符给格式或示例提示。
 - 状态色与图表色以公司调色板为**色相参考**（Success Green / Warning Orange / Danger Red / Info Cyan / Purple / Primary Blue），让多条产品线的状态语义看起来是一家的；具体值按对比度与冷暖调校，公司原值保留在 token 描述里。本系统主色是黄，所以调色板里的 Primary Blue 只做图表分类色，链接、焦点、选中态一律无色系。warning 是橙不是黄，与品牌黄靠色相区分——「主操作」和「警告」必须一眼分开；info 是青不是蓝。
@@ -134,13 +134,14 @@
 | 次要按钮 | `bg.surface`，hover `action.secondary-hover` | `text.primary` | `border.strong` |
 | 文字按钮（quiet） | 静息 `action.quiet` 浅底，hover / active `action.quiet-hover` | `text.link` / hover `text.link-hover` | 无边线；**按钮类内容不能无框架直接放在背景上**（用户规则）：要么描边（次要按钮），要么浅底（quiet），不允许裸文字当按钮 |
 | 内容型链接（订单号、名称、正文里的链接） | — | `text.link`，hover `text.link-hover` | `text.link.decoration` + `text.link.style`；等宽数字型链接不斜体 |
-| 操作链接（编辑 / 复制 / 详情 / 改派 / 催单 / 取消选择…） | — | `text.link` + `text.weight.label`，hover `text.link-hover` + 下划线；危险动作 `text.danger`（hover 不变色） | 不斜体、常态无下划线；多个动作用「·」分隔，一行最多 3 个，其余收进「⋯」；命中区 ≥ `control.hit-min` |
+| 操作链接（编辑 / 复制 / 详情 / 改派 / 催单 / 取消选择…） | 无填充；hover `bg.hover`（危险 `status.error-bg`） | `text.link` + `text.weight.label`；危险动作 `text.danger`（hover 不变色） | **同色胶囊描边**：`border.width.default` × currentColor，`radius.full`，高 `control.height.sm`，左右内边距 `spacing.2-5`；不斜体不下划线；相邻胶囊间距 `space.inline`，一行最多 3 个，其余收进「⋯」图标胶囊 |
+| 导览链接（查看全部 / 查看列表） | — | `text.link` + `text.weight.label`，hover `text.link-hover` | 文字 + 右箭头 `icon.size.sm`，hover 箭头右移 `spacing.0-5`；不描边不斜体；只有图标时（列表项右侧 ›）`icon.muted`，命中区 ≥ `control.hit-min` |
 | 标题型链接（待办、公告的标题） | — | `text.primary` + `text.weight.label`，hover `text.link-hover` + 下划线 | 不斜体、常态无下划线 |
 | 危险按钮 | `action.danger` / `-hover` / `-active` | `text.on-danger` | — |
 | 禁用态（任何控件） | 不换色 | 不换色 | `opacity.disabled` |
 | 输入框 / 搜索框 | `bg.input` | `text.primary`，占位符 `text.placeholder` | `border.input`；聚焦 `border.focus` + `focus.ring` × `focus.ring.width`；出错 `status.error` |
 | 卡片 | `bg.surface` | — | `border.default`，`radius.lg`，`elevation.card.*`，内边距 `space.card` |
-| 表格 | 表头 `bg.subtle`；斑马纹 `bg.subtle`；行 hover `bg.hover`；选中 `bg.selected-subtle`；选中 + hover `bg.selected-hover` | 表头 `text.secondary`（`text.small.size`），副行 `text.muted`，数字列 `text.numeric.variant` | 行分隔 `border.default`；单元格内边距 `table.cell.padding-y / -x`；排序激活 `text.selected`；固定列右缘 `elevation.popover.*`。**操作列**：默认是操作链接串（详情 · 改派 · ⋯），危险动作红字；只有审批类决定（通过 / 拒绝、确认 / 驳回）用 small quiet 文字按钮（`text` + `size="small"`），危险的用 `type="danger" text`（红字 + `status.error-bg` 浅红底，hover 同色发丝边——不是灰底红字）；无论哪种形态，**危险动作不得与普通动作同色**；一行最多 3 个动作，更多收进下拉「更多」；不可操作的行放 `text.muted` 的「—」；不用描边次要按钮排成一列；单元格里的名称 / 单号才是内容型链接 |
+| 表格 | 表头 `bg.subtle`；斑马纹 `bg.subtle`；行 hover `bg.hover`；选中 `bg.selected-subtle`；选中 + hover `bg.selected-hover` | 表头 `text.secondary`（`text.small.size`），副行 `text.muted`，数字列 `text.numeric.variant` | 行分隔 `border.default`；单元格内边距 `table.cell.padding-y / -x`；排序激活 `text.selected`；固定列右缘 `elevation.popover.*`。**操作列**：默认是一串操作胶囊（详情 改派 ⋯，间距 `space.inline`），危险动作红字红边；列宽按胶囊估算——两字胶囊约 52px、四字约 80px、图标胶囊约 36px，加间距与单元格内边距，胶囊不得换行；只有审批类决定（通过 / 拒绝、确认 / 驳回）用 small quiet 文字按钮（`text` + `size="small"`），危险的用 `type="danger" text`（红字 + `status.error-bg` 浅红底，hover 同色发丝边——不是灰底红字）；无论哪种形态，**危险动作不得与普通动作同色**；一行最多 3 个动作，更多收进下拉「更多」；不可操作的行放 `text.muted` 的「—」；不用描边次要按钮排成一列；单元格里的名称 / 单号才是内容型链接 |
 | 筛选栏 | 条件区无底；控件不带可见标签，靠 `aria-label` 命名（筛选栏是紧凑形态，占位符规则在这里的例外只有关键词框：占位符列出可搜字段，且带 `aria-label` 与清除按钮） | 下拉默认值是真实选项「全部…」，用正文色 | 条件区 / 动作区两组；动作区「查询」主按钮 +「重置」quiet 文字按钮，`margin-left: auto`，折行时整体换行右对齐；关键词框宽 `layout.search-width`，其余控件按内容定宽 |
 | 已选筹码 / 批量操作条 | `bg.selected` | 「已选 N 项」`text.selected` + `text.weight.strong`；带「取消选择」内容型链接 | 按钮 small：普通批量为次要按钮，破坏性批量为实底危险按钮；条随勾选出现，位于表格上方 |
 | 选项卡片（改派骑手、派单选单） | 默认 `bg.surface`；hover `bg.hover`；选中 `bg.selected-subtle` | `text.primary`，meta `text.muted` | 边线 `border.default`，选中 `border.focus`；卡片撑满容器宽度（radio-group 默认 align-items:center 会把它挤成内容宽） |
